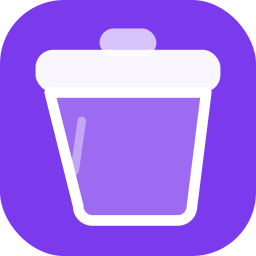
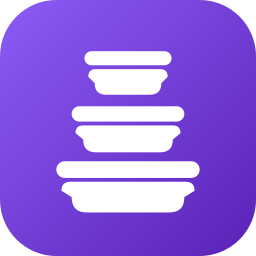
Ajustes no front, preparo para o APK e correções de erros

diff --git a/src/components/ui/Logo.tsx b/src/components/ui/Logo.tsx
@@ -3,26 +3,27 @@ interface LogoIconProps {
   className?: string;
 }
 
-/** Marca "containers empilhados" — remete a estoque/inventário.
+/** Marca "potes empilhados" — três recipientes com tampa, em ordem decrescente.
  *  Desenhada em branco para uso sobre o tile com gradiente da marca. */
 export function LogoIcon({ size = 36, className }: LogoIconProps) {
   return (
     <svg
       width={size}
       height={size}
-      viewBox="0 0 36 36"
+      viewBox="0 0 100 100"
       fill="none"
       xmlns="http://www.w3.org/2000/svg"
       className={className}
     >
-      {/* container de cima (menor) */}
-      <rect x="11" y="6"  width="14" height="6" rx="3" fill="white" fillOpacity="0.40"/>
-      {/* container do meio */}
-      <rect x="9"  y="14" width="18" height="7" rx="3" fill="white" fillOpacity="0.65"/>
-      {/* container da base (maior) */}
-      <rect x="7"  y="23" width="22" height="7" rx="3" fill="white" fillOpacity="0.95"/>
-      {/* brilho sutil na base */}
-      <rect x="10" y="25.5" width="5" height="2" rx="1" fill="#7c3aed" fillOpacity="0.55"/>
+      {/* pote de cima (menor): tampa + corpo afunilado */}
+      <rect x="33" y="20" width="34" height="5.5" rx="2.75" fill="white" />
+      <path d="M 37.5 27 L 62.5 27 Q 65.5 27 65.5 30 L 63 32.5 Q 63 37 58.5 37 L 41.5 37 Q 37 37 37 32.5 L 34.5 30 Q 34.5 27 37.5 27 Z" fill="white" />
+      {/* pote do meio */}
+      <rect x="28" y="41.5" width="44" height="6" rx="3" fill="white" />
+      <path d="M 32.5 49 L 67.5 49 Q 70.5 49 70.5 52 L 67.5 54.5 Q 67.5 59.5 62.5 59.5 L 37.5 59.5 Q 32.5 59.5 32.5 54.5 L 29.5 52 Q 29.5 49 32.5 49 Z" fill="white" />
+      {/* pote da base (maior) */}
+      <rect x="22" y="63" width="56" height="6.5" rx="3.25" fill="white" />
+      <path d="M 27.5 71 L 72.5 71 Q 76 71 76 74.5 L 72 77 Q 72 83 66 83 L 34 83 Q 28 83 28 77 L 24 74.5 Q 24 71 27.5 71 Z" fill="white" />
     </svg>
   );
 }
@@ -53,15 +54,18 @@ export function LogoFull({ size = 36 }: { size?: number }) {
 }
 
 // SVG standalone (geração de favicon / ícone) — tile com gradiente embutido
-export const LOGO_SVG_STRING = `<svg width="32" height="32" viewBox="0 0 36 36" fill="none" xmlns="http://www.w3.org/2000/svg">
+export const LOGO_SVG_STRING = `<svg width="32" height="32" viewBox="0 0 100 100" fill="none" xmlns="http://www.w3.org/2000/svg">
   <defs>
-    <linearGradient id="tsg" x1="0" y1="0" x2="36" y2="36" gradientUnits="userSpaceOnUse">
+    <linearGradient id="tsg" x1="0" y1="0" x2="100" y2="100" gradientUnits="userSpaceOnUse">
       <stop stop-color="#8b5cf6"/>
       <stop offset="1" stop-color="#5b21b6"/>
     </linearGradient>
   </defs>
-  <rect width="36" height="36" rx="10" fill="url(#tsg)"/>
-  <rect x="11" y="6"  width="14" height="6" rx="3" fill="white" fill-opacity="0.40"/>
-  <rect x="9"  y="14" width="18" height="7" rx="3" fill="white" fill-opacity="0.65"/>
-  <rect x="7"  y="23" width="22" height="7" rx="3" fill="white" fill-opacity="0.95"/>
+  <rect width="100" height="100" rx="22" fill="url(#tsg)"/>
+  <rect x="33" y="20" width="34" height="5.5" rx="2.75" fill="white"/>
+  <path d="M 37.5 27 L 62.5 27 Q 65.5 27 65.5 30 L 63 32.5 Q 63 37 58.5 37 L 41.5 37 Q 37 37 37 32.5 L 34.5 30 Q 34.5 27 37.5 27 Z" fill="white"/>
+  <rect x="28" y="41.5" width="44" height="6" rx="3" fill="white"/>
+  <path d="M 32.5 49 L 67.5 49 Q 70.5 49 70.5 52 L 67.5 54.5 Q 67.5 59.5 62.5 59.5 L 37.5 59.5 Q 32.5 59.5 32.5 54.5 L 29.5 52 Q 29.5 49 32.5 49 Z" fill="white"/>
+  <rect x="22" y="63" width="56" height="6.5" rx="3.25" fill="white"/>
+  <path d="M 27.5 71 L 72.5 71 Q 76 71 76 74.5 L 72 77 Q 72 83 66 83 L 34 83 Q 28 83 28 77 L 24 74.5 Q 24 71 27.5 71 Z" fill="white"/>
 </svg>`;

diff --git a/src/app/page.tsx b/src/app/page.tsx
@@ -3,6 +3,7 @@
 import { useState, useEffect } from "react";
 import { API } from "@/lib/api";
 import { ThemeProvider, useTheme, THEMES } from "@/contexts/ThemeContext";
+import { LogoIcon } from "@/components/ui/Logo";
 import type { Theme } from "@/types";
 
 /* ── Inline SVG icons to avoid lucide className issues ── */
@@ -328,13 +329,7 @@ function LoginContent() {
             {/* Brand */}
             <div className="login-brand">
               <div className="login-brand-icon">
-                <svg width="26" height="26" viewBox="0 0 36 36" fill="none" xmlns="http://www.w3.org/2000/svg">
-                  <rect x="5" y="7" width="26" height="6" rx="2.5" fill="white" fillOpacity="0.95"/>
-                  <rect x="14" y="4" width="8" height="4" rx="2" fill="white" fillOpacity="0.7"/>
-                  <path d="M7 13h22l-2 16a2 2 0 0 1-2 2H13a2 2 0 0 1-2-2L7 13z" fill="white" fillOpacity="0.25"/>
-                  <path d="M7 13h22l-2 16a2 2 0 0 1-2 2H13a2 2 0 0 1-2-2L7 13z" stroke="white" strokeWidth="1.5" strokeLinejoin="round"/>
-                  <path d="M11.5 17 L10.5 24" stroke="white" strokeWidth="1.2" strokeLinecap="round" strokeOpacity="0.4"/>
-                </svg>
+                <LogoIcon size={26} />
               </div>
               <span className="login-brand-text">
                 Tupper<strong>Store</strong>